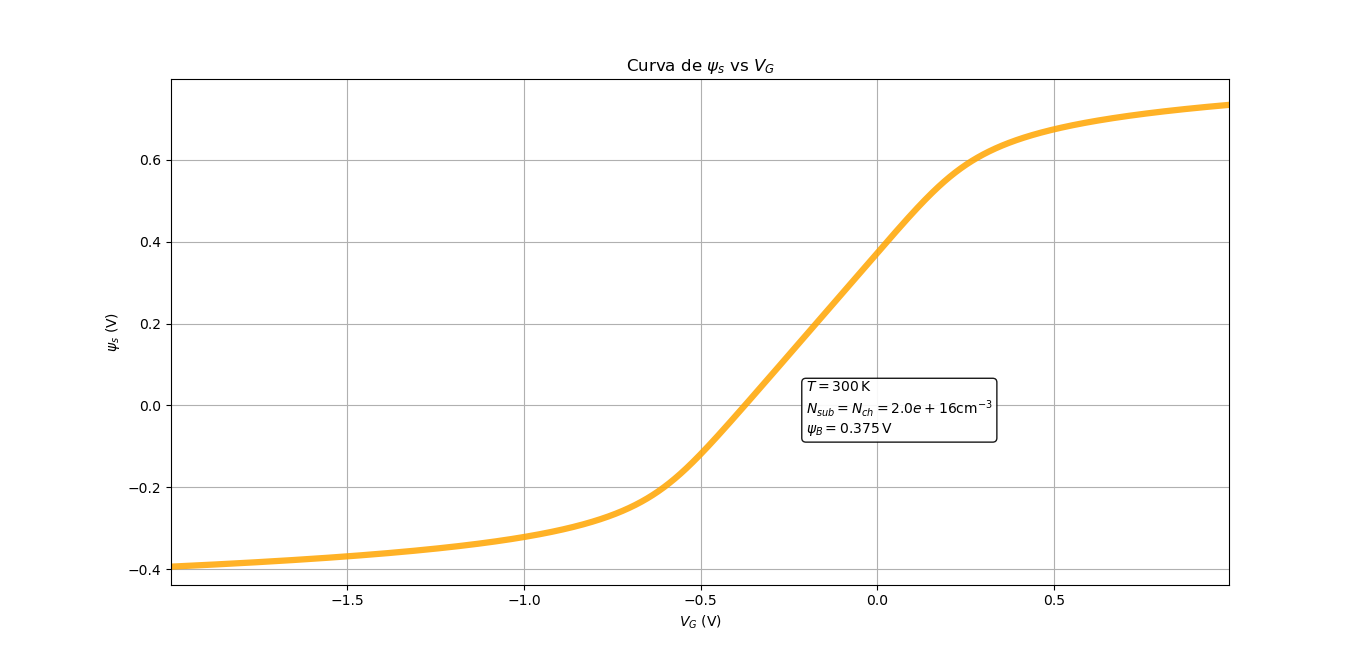
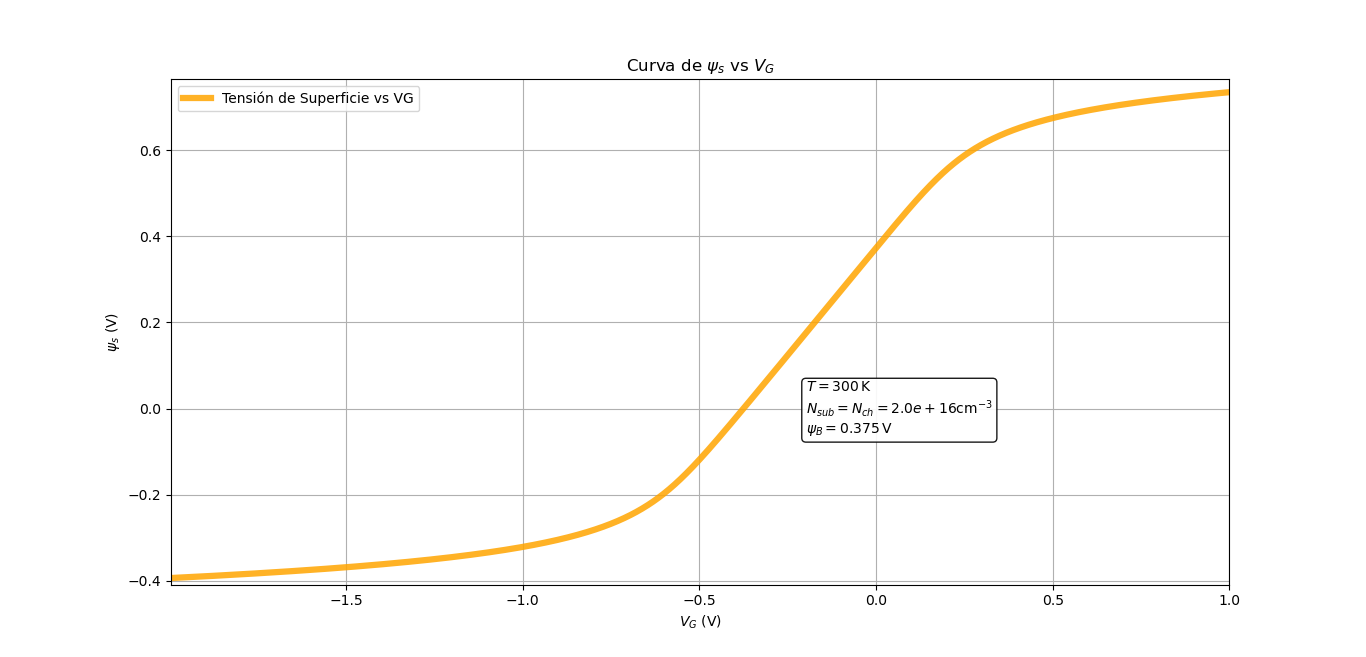
Curva_C-V

diff --git a/teoricos.py b/teoricos.py
@@ -1,33 +1,27 @@
 import numpy as np
 import matplotlib.pyplot as plt
+from scipy.interpolate import interp1d
+
 
 # Parámetros
 e_o = 88.54e-15  # F/cm
 epsilon_si = 11.7 * e_o
 e_ox = 3.9*e_o
-
-
-
 chi_si = 4.05  #eV
 chi_ox  =0.95 #eV
-
 Eg = 1.12 #eV
-
-
-tox = 16e-9
-
+tox = 16e-9  #en nm 
 q = 1.602e-19
 k = 1.381e-23
 T = 300  # K
-
 V_th = (k*T)/q
 
 ni = 1e10   # cm^-3
 Na = 2e16   # cm^-3
 
-Cox = e_ox/tox
+Cox = e_ox/(tox*100)  # paso a cm el tox
 
-psi_B = V_th * np.log(Na / ni)  # Para sustrato tipo p
+psi_B = -V_th * np.log(Na / ni)  # Para sustrato tipo p
 
 psi_bi = chi_si*q + (Eg/2*q) + V_th*np.log(Na/ni) - chi_ox*q
 
@@ -136,11 +130,105 @@ plt.gca().text(
     bbox=dict(boxstyle='round', facecolor='white', alpha=0.9)
 )
 
+
+plt.plot([Vg(_y) for _y in y], y,alpha = 0.85, linewidth=4.5, color = "orange",label="Tensión de Superficie vs VG")
+
 plt.ylabel(r'$\psi_s$ (V)')
 plt.xlabel(r'$V_G$ (V)')
 plt.title(r"Curva de $\psi_s$ vs $V_G$")
-plt.plot([Vg(_y) for _y in y], y,alpha = 0.85, linewidth=4.5, color = "orange")
+
 plt.xlim(-2, 1)
+plt.legend()
+
 # plt.ylim(0, 1.2)
 plt.grid()
 plt.show()
+
+
+
+#Capacitancia en funcion de V
+# Vamos a recalcular Cd con la fórmula correcta para la región de interés:
+# --- Gráfica ---
+
+# Definición de tu eje X (Voltaje de Puerta)
+VG_values = np.linspace(-2, 1, 2000)
+
+#VT = VF B − 2ψB + γ raiz{−2ψB}
+
+factor_body = np.sqrt(2*q*Na*epsilon_si)/Cox
+
+VT = VFB - 2*psi_B + factor_body*np.sqrt(-2*psi_B)
+
+# Aquí C_mos_total es igual a la constante Cox
+C_cox_vector = np.full_like(VG_values, Cox)
+
+print("Cuanto vale Cox = ", C_cox_vector*1e9)
+print("Cuanto vale VT = ",VT)
+
+
+
+C_mos_total_curva = np.zeros_like(VG_values) # Array para almacenar la curva C_MOS
+
+# Capacitancia Mínima (C_min)
+
+
+# 1. Acumulación (VG <= VFB)
+mask_acumulacion = VG_values <= VFB
+C_mos_total_curva[mask_acumulacion] = Cox
+
+# 2. Inversión (VG >= VT) - Alta Frecuencia
+mask_inversion = VG_values >= VT
+C_mos_total_curva[mask_inversion] = Cox
+
+# 3. Agotamiento (VFB < VG < VT)
+
+
+
+
+
+# Modelo de vaciamiento
+mask_dep = (VG_values > VFB) & (VG_values < VT)
+
+argumento_vaciamiento = (4/(factor_body**2))*(VG_values - VFB) + 1 
+
+
+
+C_mos_total_curva[mask_dep] = Cox / np.sqrt(argumento_vaciamiento[mask_dep])
+
+
+plt.figure(figsize=(7,5))
+
+# **CORRECCIÓN:** Multiplica C_mos_total por 1e6 para graficar en uF/cm^2
+plt.plot(VG_values, C_cox_vector*1e9 , alpha=0.85,linestyle="--" ,linewidth=4.5, label=r'$C_{ox}$')
+plt.plot(VG_values, C_mos_total_curva*1e9 , alpha=0.85 ,linewidth=4.5, color = "orange" , label=r'$C$')
+
+plt.xlabel(r'$V_G$ (V)')
+# **CORRECCIÓN:** Ajusta la etiqueta del eje Y a las nuevas unidades
+plt.ylabel(r'$C$ ($ nF/cm^2$)') 
+plt.title('C vs VG')
+
+# Recta Vertical en VFB
+plt.axvline(x=VFB, 
+            color='gray', 
+            linestyle='-.', 
+            linewidth=2, 
+            label=r'$V_{FB}$')
+
+# Recta Vertical en VT
+plt.axvline(x=VT, 
+            color='purple', 
+            linestyle='-.', 
+            linewidth=2, 
+            label=r'$V_T$')
+
+# Para ver mejor la línea, ajustamos los límites del eje Y
+# Cox en uF/cm^2 es aprox 2.15
+plt.ylim(0, 300) 
+
+plt.grid(True, which="both", linestyle="--")
+plt.legend()
+plt.tight_layout()
+plt.show()
+
+
+
